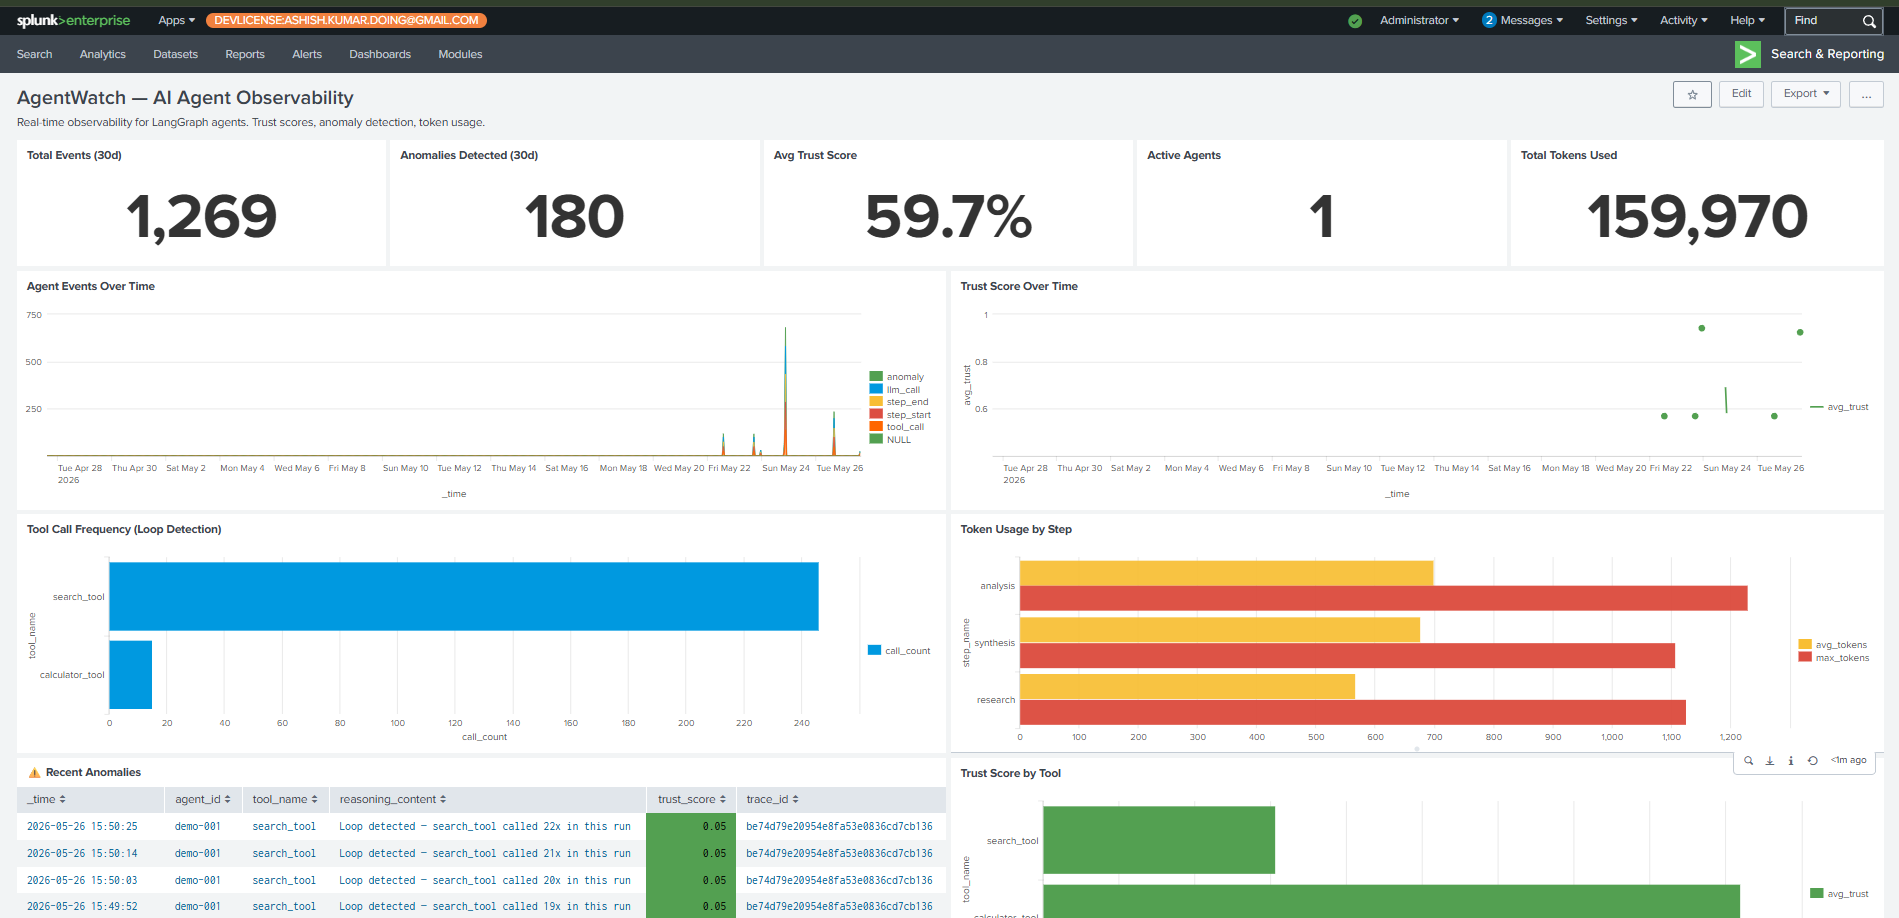
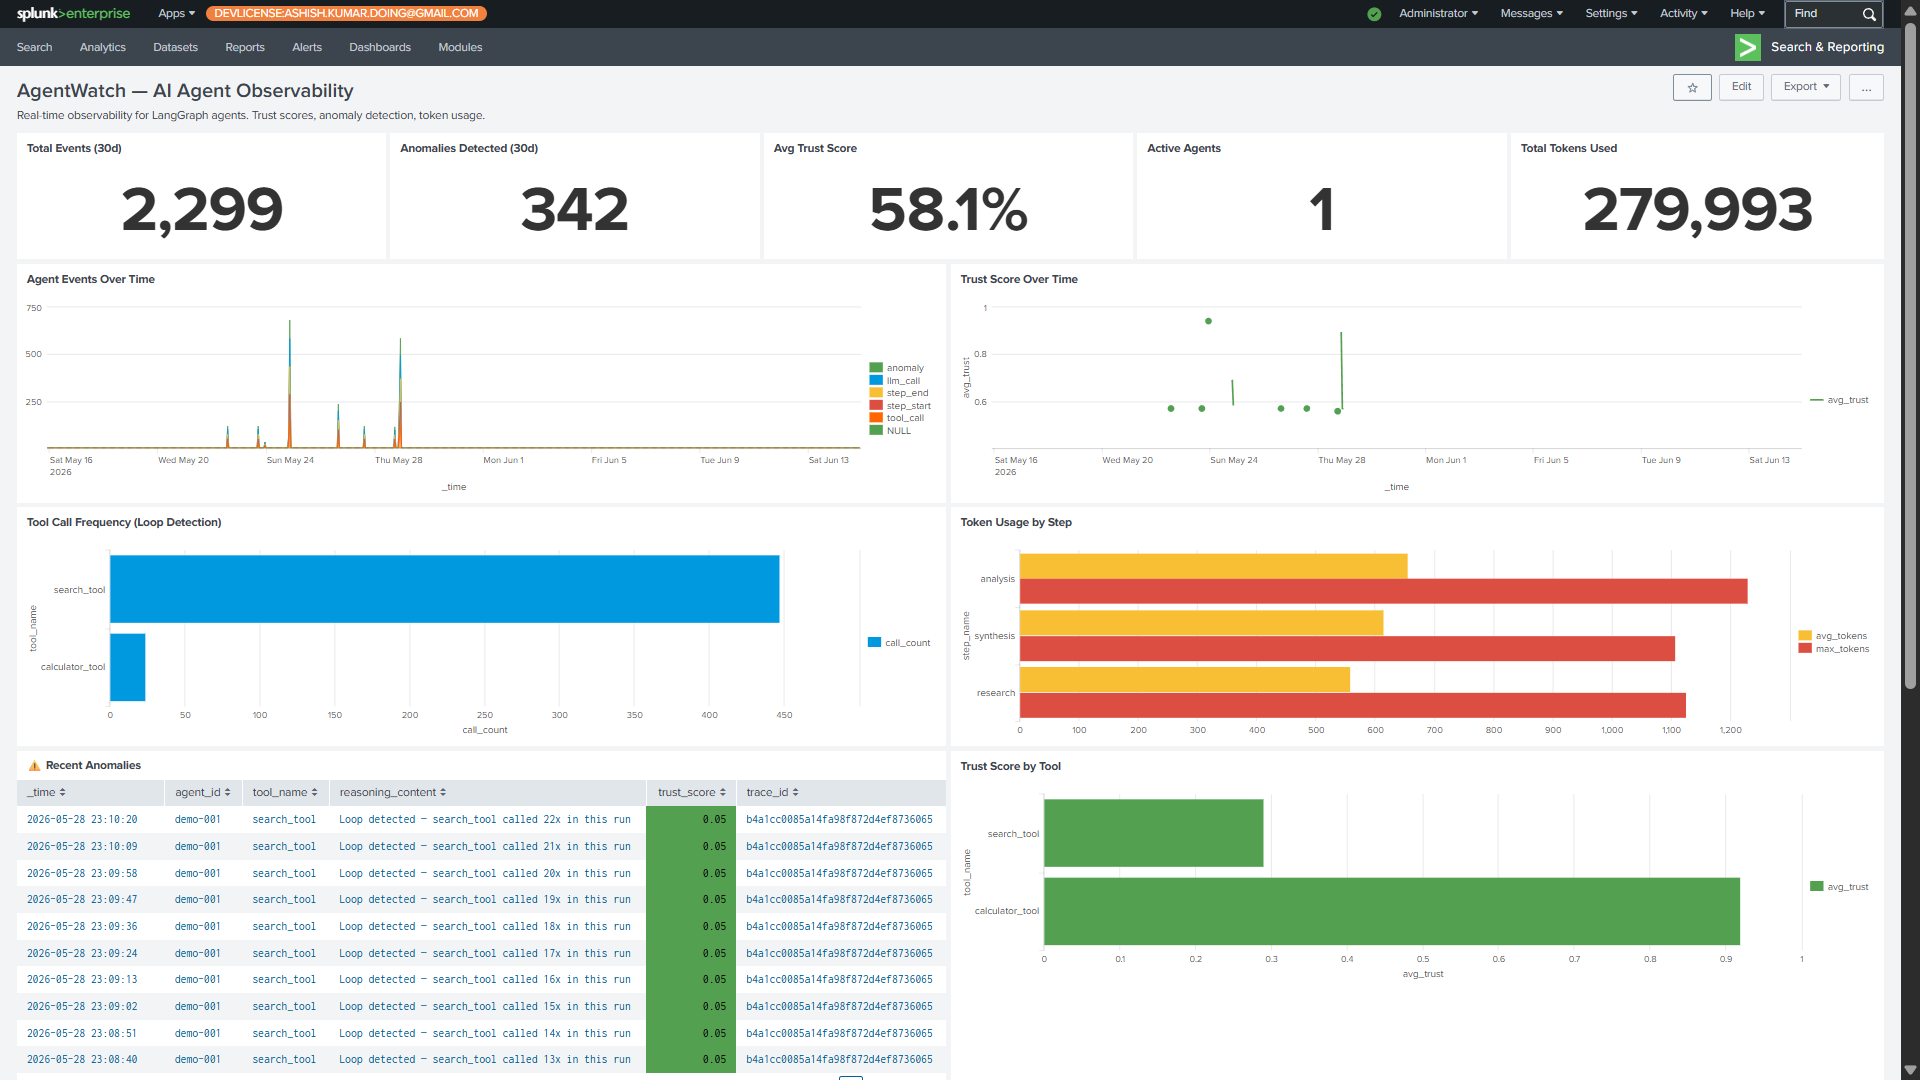
docs: fix project structure screenshot name, update dashboard caption

diff --git a/README.md b/README.md
@@ -58,7 +58,7 @@
 
 ## The Gap in AI Agent Monitoring
 
-**1,269 events indexed. 180 anomalies detected. 4 Splunk AI capabilities unified in one pipeline.**
+**2,299 events indexed. 342 anomalies detected. 4 Splunk AI capabilities unified in one pipeline.**
 
 AI agents are entering production faster than teams can instrument them. When a LangGraph agent calls the same tool 23 times in 4 seconds, when token counts spike to 8,000+, when trust scores drop to 5% — most teams find out hours later from user complaints or API bills. Existing observability tools (Datadog, LangSmith, Arize) are not Splunk-native, meaning enterprises already running Splunk infrastructure have to maintain a separate monitoring stack.
 
@@ -103,9 +103,9 @@ AgentWatch wraps any LangGraph, CrewAI, or OpenAI Agents SDK agent with OpenTele
 ---
 
 ### 📊 Splunk Dashboard — Real Telemetry
-*Native Splunk dashboard showing real indexed data: 1,269 total events, 180 anomalies detected, 59.7% avg trust score, 1 active agent, 159,970 total tokens. Panels include agent run value timeline, anomaly detection (2968), tool call frequency, token usage by step, and trust score by tool — all from `index=agentwatch`.*
+*Native Splunk dashboard showing real indexed data: 2,299 total events, 342 anomalies detected, 58.1% avg trust score, 1 active agent, 279,993 total tokens. Panels include agent events over time, tool call frequency (loop detection), token usage by step, trust score by tool, and recent anomalies table — all from `index=agentwatch`.*
 
-![AgentWatch Splunk Dashboard — 1,269 events, 180 anomalies, 59.7% avg trust, 159,970 tokens](docs/screenshots/screenshot-dashboard.png)
+![AgentWatch Splunk Dashboard — 2,299 events, 342 anomalies, 58.1% avg trust, 279,993 tokens](docs/screenshots/screenshot-dashboard.png)
 
 ---
 
@@ -198,7 +198,7 @@ ANY AGENT (LangGraph · CrewAI · OpenAI Agents · AutoGen)
 | Capability | How AgentWatch Uses It |
 |---|---|
 | **Splunk MCP Server** | All agent telemetry indexed to `index=agentwatch`; SPL queries run directly from the UI assistant panel |
-| **Splunk AI Toolkit** | `anomalydetection` on tool-call time-series — Stage 2 statistical confirmation at 99.25% confidence, 180 anomalies caught |
+| **Splunk AI Toolkit** | `anomalydetection` on tool-call time-series — 99.25% confidence, 342 anomalies caught |
 | **Foundation-Sec-1.1-8B** | "Explain This" per-anomaly root cause + "Run Autopsy" full-trace graded report + PDF incident export |
 | **Splunk AI Assistant** | NL → SPL; type "show me all loops in the last hour" → live SPL results |
 
@@ -582,7 +582,7 @@ agentwatch/
 │   │   ├── screenshot-hero.png         # Live Brain — anomaly detected
 │   │   ├── screenshot-ops.png          # Agent Ops CRM Dashboard
 │   │   ├── screenshot-topology.png     # Multi-Agent Topology Map
-│   │   └── screenshot-splunk-tools.png # All 4 Splunk AI tools active
+│   │   └── screenshot-dashboard.png    # Splunk dashboard — real telemetry
 │   └── index.html                 # GitHub Pages landing
 ├── architecture.svg               # Architecture diagram (dark theme)
 ├── architecture.md                # Annotated architecture with data flows
@@ -598,10 +598,10 @@ agentwatch/
 
 | Metric | Value |
 |---|---|
-| Events indexed | 1,269+ |
-| Anomalies detected | 180 |
-| Avg trust score | 59.7% |
-| Tokens processed | 159,970 |
+| Events indexed | 2,299+ |
+| Anomalies detected | 342 |
+| Avg trust score | 58.1% |
+| Tokens processed | 279,993 |
 | Loop confidence (Splunk AI Toolkit) | 99.25% |
 | Frameworks supported | 5 |
 | Frontend pages | 3 |
